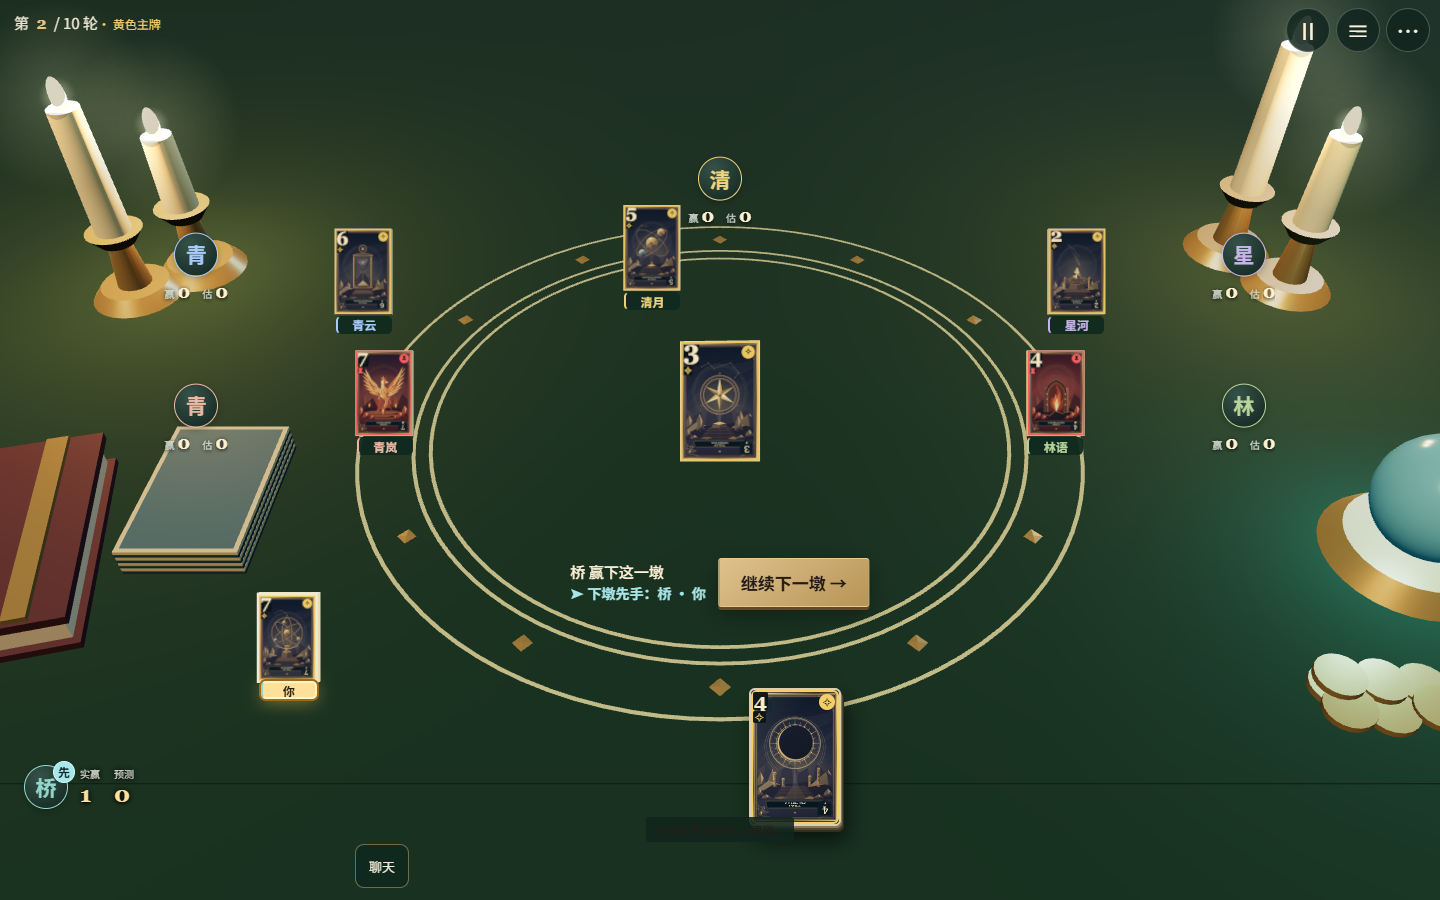
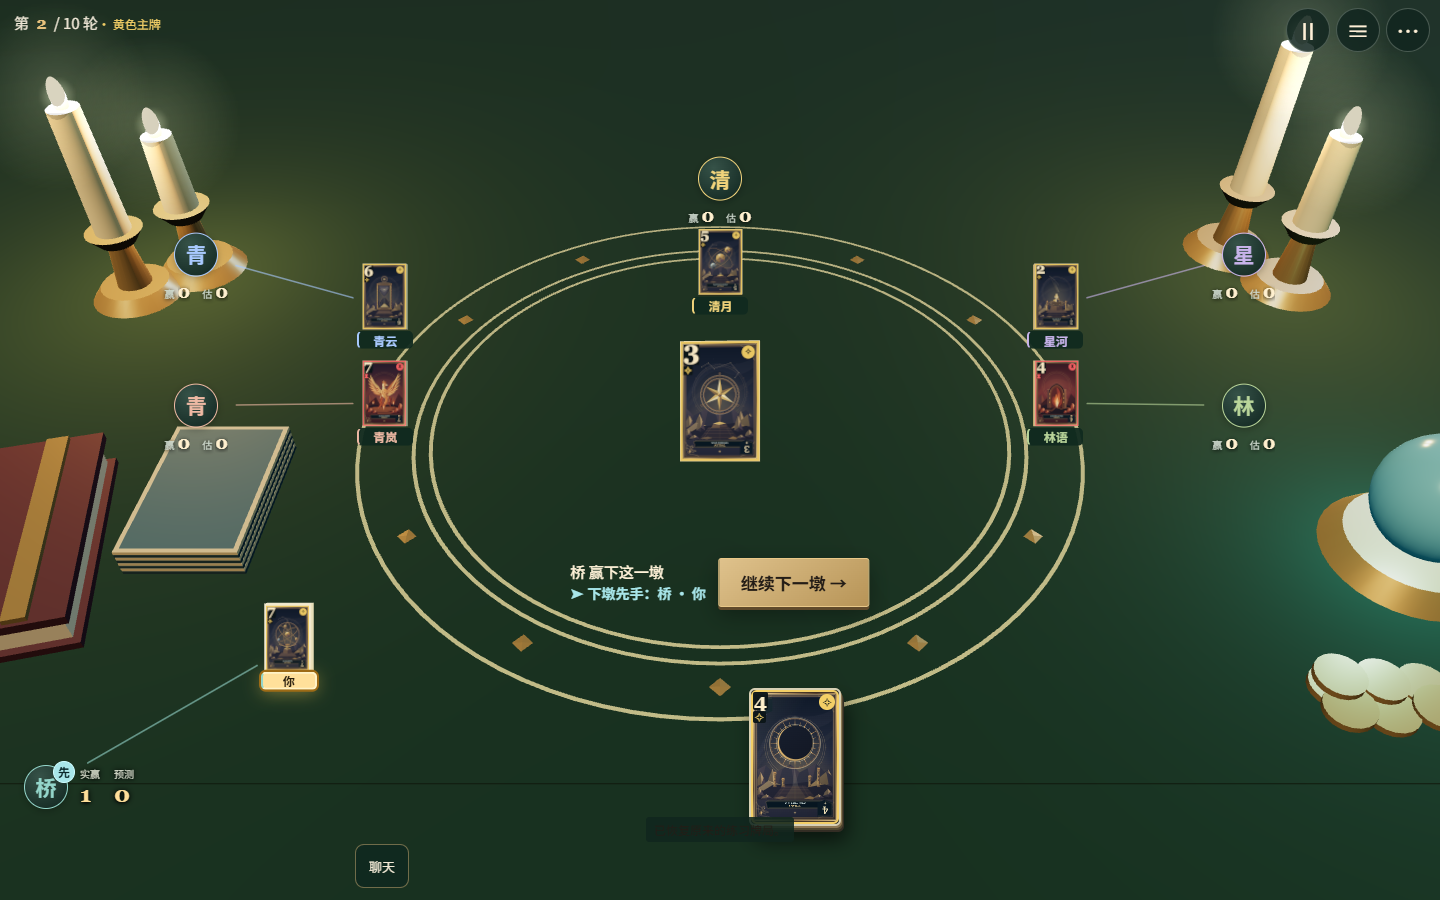
固定出牌所属头像区域，修正六人归属混淆

diff --git a/src/main.js b/src/main.js
@@ -29,7 +29,7 @@ import './table-clarity.css';
 import { cardMark, cardMarksHTML } from './card-face.js';
 import { captureHand, HandMotion } from './hand-motion.js';
 import { CARD_ENTER_MS, TableMotion } from './table-motion.js';
-import { playedCardRect, playedCardSlots } from './table-layout.js';
+import { playedCardRect, playedCardSlots, playedCardLink } from './table-layout.js';
 import { seatPosition, landscapeSeatPosition, relativeSeat, followSuitHint, playBlockedReason, sortCards, isSwipe } from './hand-model.js';
 import { readRoomRecoveries, saveRoomRecovery, removeRoomRecovery } from './room-recovery.js';
 import { PRACTICE_SAVE_KEY, PRACTICE_KEEP_MS, readPractice, savePractice } from './practice-save.js';
@@ -430,7 +430,7 @@ function updateLayoutMetrics() {
     const trumpNode = $('.trump-display[data-occluded="false"] .trump-card');
     const trump = trumpNode?.getBoundingClientRect();
     if (trump) obstacles.push(trump);
-    const center = trump ? {x:trump.left+trump.width/2,y:trump.top+trump.height/2} : {x:rect.left+rect.width/2,y:rect.top+rect.height*.48};
+    let center = trump ? {x:trump.left+trump.width/2,y:trump.top+trump.height/2} : {x:rect.left+rect.width/2,y:rect.top+rect.height*.48};
     const seats = [...avatars].filter(([,node])=>node).map(([id,node]) => { const r=node.getBoundingClientRect(); return {id,self:id===me,x:r.left+r.width/2,y:r.top+r.height/2}; });
     const area = {left:rect.left+8,right:rect.right-8,top:rect.top+8,bottom:rect.bottom-8};
     const crowdScale = {3:1,4:.9,5:.8,6:.7}[state.players.length];
@@ -438,22 +438,37 @@ function updateLayoutMetrics() {
     const preferredWidth = Math.min(sizeLimit,Math.max(36,Math.min(rect.width,rect.height)*.135*crowdScale));
     let layout = playedCardSlots(area,seats,center,obstacles,preferredWidth);
     if (!layout && trumpNode) for (const scale of [.8,.65,.55,.4]) {
-      const display = trumpNode.closest('.trump-display');
-      display.style.setProperty('--trump-width',`${trump.width*scale}px`);
-      display.style.setProperty('--trump-height',`${trump.height*scale}px`);
-      obstacles[obstacles.length-1] = trumpNode.getBoundingClientRect();
+      layoutTrumpDisplay(table,scale);
+      const smallerTrump=trumpNode.getBoundingClientRect();
+      obstacles[obstacles.length-1] = smallerTrump;
+      center={x:smallerTrump.left+smallerTrump.width/2,y:smallerTrump.top+smallerTrump.height/2};
       layout = playedCardSlots(area,seats,center,obstacles,preferredWidth);
       if (layout) break;
     }
     played.dataset.layout = layout ? 'seats' : 'unavailable';
     if (layout) {
       played.style.setProperty('--played-width',`${layout.width}px`);
+      let links=played.querySelector('.played-links');
+      if(!links){links=document.createElementNS('http://www.w3.org/2000/svg','svg');links.classList.add('played-links');links.setAttribute('aria-hidden','true');played.prepend(links);}
+      links.setAttribute('viewBox',`0 0 ${rect.width} ${rect.height}`);links.replaceChildren();
       for (const node of played.querySelectorAll('.played')) {
         const slot = layout.slots.get(node.dataset.player);
         node.style.setProperty('--play-x',`${slot.x-rect.left}px`);
         node.style.setProperty('--play-y',`${slot.y-rect.top}px`);
         node.style.setProperty('--player-color',avatars.get(node.dataset.player)?.style.getPropertyValue('--avatar-color') || '#f3ead6');
         if (node.dataset.player === me) node.querySelector('.played-name').textContent = '你';
+        if(seats.length>=5){
+          const avatar=avatars.get(node.dataset.player),source=seats.find(seat=>seat.id===node.dataset.player);
+          const sourceRect=avatar.closest('.player,.own-status').getBoundingClientRect();
+          const link=playedCardLink(source,sourceRect,node.getBoundingClientRect());
+          if(link){
+            const line=document.createElementNS('http://www.w3.org/2000/svg','line');
+            for(const name of ['x1','x2'])line.setAttribute(name,link[name]-rect.left);
+            for(const name of ['y1','y2'])line.setAttribute(name,link[name]-rect.top);
+            line.setAttribute('stroke',avatar.style.getPropertyValue('--avatar-color'));
+            line.dataset.player=node.dataset.player;links.append(line);
+          }
+        }
       }
     }
   }

diff --git a/src/table-layout.js b/src/table-layout.js
@@ -31,9 +31,13 @@ export function playedCardRect(node) {
 const intersects = (a, b, gap = 4) => a.left < b.right + gap && a.right > b.left - gap && a.top < b.bottom + gap && a.bottom > b.top - gap;
 
 // Reserve every player's destination, including seats that have not played.
-// Search the corridor from each real avatar toward the trump, then reduce the
-// common face size only if all seats cannot fit at the preferred size.
+// Keep each face in its owner's angular sector around the trump. Empty felt
+// in a different player's sector is not a valid destination.
 export function playedCardSlots(area, seats, center, obstacles, preferredWidth) {
+  const directions = seats.map(seat=>{
+    const length=Math.hypot(seat.x-center.x,seat.y-center.y)||1;
+    return {id:seat.id,x:(seat.x-center.x)/length,y:(seat.y-center.y)/length};
+  });
   for (const width of [...new Set([1,.92,.84,.76,.68,.6].map(scale => Math.max(36, Math.round(preferredWidth * scale))).concat(36))]) {
     const slotWidth = Math.max(56, width), height = width * 1.5 + 20;
     const rectAt = (x,y) => ({ left:x-slotWidth/2, right:x+slotWidth/2, top:y-height/2, bottom:y+height/2 });
@@ -42,15 +46,20 @@ export function playedCardSlots(area, seats, center, obstacles, preferredWidth) 
       const preferred = { x:seat.x+dx*.36, y:seat.y+dy*.36 };
       if (seat.self) preferred.y = Math.max(preferred.y,center.y+height*.35);
       const xs = [preferred.x], ys = [preferred.y];
+      for(const offset of [-.6,-.3,.3,.6]){xs.push(preferred.x+slotWidth*offset);ys.push(preferred.y+slotWidth*offset);}
       for (const t of [.32,.4,.5,.6,.7,.8]) { xs.push(seat.x+dx*t); ys.push(seat.y+dy*t); }
       for (const r of obstacles) { xs.push(r.left-4-slotWidth/2,r.right+4+slotWidth/2); ys.push(r.top-4-height/2,r.bottom+4+height/2); }
       const options = [];
       for (const x of new Set(xs)) for (const y of new Set(ys)) {
         const t = ((x-seat.x)*dx+(y-seat.y)*dy)/length2;
         const cross = ((x-seat.x)*dy-(y-seat.y)*dx)**2/length2;
-        if (t < .12 || t > (seat.self ? 1.35 : 1) || cross > (slotWidth*2.2)**2) continue;
+        if (t < .12 || t > (seat.self ? 1.35 : 1) || cross > (slotWidth*(seat.self ? 1.5 : .7))**2) continue;
         if ((x-center.x)**2+(y-center.y)**2 > length2*.85) continue;
         if (seat.self && y < center.y+height*.22) continue;
+        const face={x:x-center.x,y:y-10-center.y};
+        const owner=directions.find(direction=>direction.id===seat.id);
+        const alignment=face.x*owner.x+face.y*owner.y;
+        if (directions.some(other=>other.id!==seat.id&&face.x*other.x+face.y*other.y>alignment-.5)) continue;
         const rect = rectAt(x,y);
         if (rect.left < area.left || rect.right > area.right || rect.top < area.top || rect.bottom > area.bottom || obstacles.some(o => intersects(rect,o))) continue;
         options.push({ x,y,rect,score:(x-preferred.x)**2+(y-preferred.y)**2+cross*4 });
@@ -93,4 +102,14 @@ export function playedCardSlots(area, seats, center, obstacles, preferredWidth) 
     }
   }
   return null;
+}
+
+export function playedCardLink(source, sourceRect, targetRect, gap=4) {
+  const dx=(targetRect.left+targetRect.right)/2-source.x,dy=(targetRect.top+targetRect.bottom)/2-source.y;
+  const length=Math.hypot(dx,dy);if(!length)return null;
+  const exit=Math.min(dx>0?(sourceRect.right-source.x)/dx:dx<0?(sourceRect.left-source.x)/dx:Infinity,
+    dy>0?(sourceRect.bottom-source.y)/dy:dy<0?(sourceRect.top-source.y)/dy:Infinity)+gap/length;
+  const enter=Math.max(dx>0?(targetRect.left-source.x)/dx:dx<0?(targetRect.right-source.x)/dx:-Infinity,
+    dy>0?(targetRect.top-source.y)/dy:dy<0?(targetRect.bottom-source.y)/dy:-Infinity)-gap/length;
+  return enter>exit?{x1:source.x+dx*exit,y1:source.y+dy*exit,x2:source.x+dx*enter,y2:source.y+dy*enter}:null;
 }

diff --git a/tests/table-layout.test.js b/tests/table-layout.test.js
@@ -1,6 +1,6 @@
 import test from 'node:test';
 import assert from 'node:assert/strict';
-import { openCardSlot, playedCardSlots } from '../src/table-layout.js';
+import { openCardSlot, playedCardSlots, playedCardLink } from '../src/table-layout.js';
 
 test('trump yields to an opposite seat and never leaves the available table', () => {
   const area = {left:8,right:382,top:64,bottom:410};
@@ -45,7 +45,7 @@ test('played-card sizing shrinks to fit and reports a completely obstructed play
   assert.equal(playedCardSlots(area,seats,center,[area],118),null);
 });
 
-test('six narrow-landscape seats keep the viewer below and beside the unobstructed trump', () => {
+test('six narrow-landscape cards cannot occupy another avatar sector even when that space is empty', () => {
   const center={x:333.5,y:212.265625},area={left:8,right:659,top:8,bottom:367};
   const seats=[{id:'p0',self:true,x:30,y:341},{id:'p1',x:63,y:165.328125},
     {id:'p2',x:153.40625,y:75.546875},{id:'p3',x:333.5,y:47.421875},
@@ -54,10 +54,25 @@ test('six narrow-landscape seats keep the viewer below and beside the unobstruct
   const trump={left:295.5,right:371.5,top:155.265625,bottom:269.265625};
   obstacles.push(trump,{left:8,right:153,top:319,bottom:363},{left:168,right:659,top:285.828125,bottom:359},
     {left:513,right:657,top:8,bottom:52},{left:12,right:141.125,top:10,bottom:29});
-  const layout=playedCardSlots(area,seats,center,obstacles,68);
+  assert.equal(playedCardSlots(area,seats,center,obstacles,36),null,'the large central trump leaves no honest top-seat slot');
+  const smallerTrump={left:center.x-15.2,right:center.x+15.2,top:center.y-22.8,bottom:center.y+22.8};
+  obstacles[obstacles.indexOf(trump)]=smallerTrump;
+  const layout=playedCardSlots(area,seats,center,obstacles,36);
   assert.ok(layout);assert.equal(layout.slots.size,6);
   const own=layout.slots.get('p0');
   assert.ok(own.y>center.y);
-  assert.ok(own.rect.right<trump.left||own.rect.left>trump.right||own.rect.top>trump.bottom);
-  for(const slot of layout.slots.values())assert.ok(slot.rect.right<=trump.left||slot.rect.left>=trump.right||slot.rect.bottom<=trump.top||slot.rect.top>=trump.bottom);
+  assert.ok(own.rect.right<smallerTrump.left||own.rect.left>smallerTrump.right||own.rect.top>smallerTrump.bottom);
+  for(const seat of seats){
+    const slot=layout.slots.get(seat.id),face={x:slot.x-center.x,y:slot.y-10-center.y};
+    const alignment=source=>(face.x*(source.x-center.x)+face.y*(source.y-center.y))/Math.hypot(source.x-center.x,source.y-center.y);
+    for(const other of seats.filter(other=>other.id!==seat.id))assert.ok(alignment(seat)>alignment(other),'card stays in its own avatar direction');
+    assert.ok(slot.rect.right<=smallerTrump.left||slot.rect.left>=smallerTrump.right||slot.rect.bottom<=smallerTrump.top||slot.rect.top>=smallerTrump.bottom);
+  }
+});
+
+test('ownership links stop before the player and card rectangles and omit a gap too short to draw', () => {
+  const source={x:20,y:20},player={left:10,right:30,top:10,bottom:30};
+  const link=playedCardLink(source,player,{left:60,right:80,top:10,bottom:30});
+  for(const [key,value]of Object.entries({x1:34,y1:20,x2:56,y2:20}))assert.ok(Math.abs(link[key]-value)<1e-9);
+  assert.equal(playedCardLink(source,player,{left:34,right:54,top:10,bottom:30}),null);
 });

diff --git a/src/trump-display.js b/src/trump-display.js
@@ -58,7 +58,7 @@ export function renderTrumpDisplay(table, state) {
   table.append(root);
 }
 
-export function layoutTrumpDisplay(table) {
+export function layoutTrumpDisplay(table, sizeScale = 1) {
   const root = table?.querySelector('.trump-display');
   if (!root?.querySelector('.trump-card')) return;
   const box = table.getBoundingClientRect();
@@ -71,7 +71,7 @@ export function layoutTrumpDisplay(table) {
   const area = { left:box.left+8, right:box.right-8,
     top:Math.max(box.top+8,...header.map(r=>r.bottom+12)), bottom:Math.min(box.bottom-8,...dock.map(r=>r.top-10)) };
   const obstacles = visible('.opponents .player, .foresight-hands, .lifecycle-banner');
-  const width = box.width > 850 ? 100 : box.width > box.height ? 76 : 94;
+  const width = (box.width > 850 ? 100 : box.width > box.height ? 76 : 94) * sizeScale;
   const preferred = { x:box.left+box.width/2, y:area.top+(area.bottom-area.top)*.7 };
   let slot = null, best = Infinity;
   for (const scale of [1, .8, .65]) {

diff --git a/src/table-clarity.css b/src/table-clarity.css
@@ -1,4 +1,6 @@
 /* Cards share a measured layout and scale with the room between seats and trump. */
+.played-links { position:absolute;inset:0;width:100%;height:100%;overflow:visible;pointer-events:none; }
+.played-links line { stroke-width:1.5;stroke-linecap:round;opacity:.6; }
 body[data-screen="game"] .table .played-cards .played,
 body[data-screen="game"].has-webgl .table .played-cards .played {
   width:max(56px,var(--played-width,56px));height:calc(var(--played-width,56px) * 1.5 + 20px);

diff --git a/docs/dev-memory/HISTORY.md b/docs/dev-memory/HISTORY.md
@@ -315,3 +315,12 @@
 - 既有 17 组布局／原生触控／选牌确认检查通过；本地真实 Worker 与手机浏览器／三维观众的动画检查通过，覆盖出牌、聊天及尺寸重绘、暂停收牌、二维动画冻结、旋转、暂停刷新与下一墩同步清场，errors=[]。后续仅调整牌面分档与姓名标签，最终完整 80 场景及单测再次通过。
 - 验证边界：一个中间全量检查在页面导航时出现浏览器崩溃，未计为通过；最终完整重跑通过。旧 5173 Vite 返回旧 CSS，经核对响应后改用独立 5180 服务；未将开发服务缓存归因为线上源码故障。手机为桌面浏览器模拟，不声称真实手机 GPU、键盘或运营商网络验收；保留既有 Three.js 分包提示，无远端 CI 变更。
 - 最终效果：[六人横屏](../screenshots/played-card-landscape.png)、[六人竖屏](../screenshots/played-card-portrait.png)、[六人电脑](../screenshots/played-card-desktop.png)。几何明细与中间证据位于忽略提交的 output/playwright。本轮按默认策略提交代码、必要回归与记录到本地 Git，尚未推送、创建 PR、合并或部署。
+
+<a id="h-027"></a>
+## H-027 · 2026-10-29 · 修正六人出牌跨入相邻头像方向
+- 来源：用户复看 `da49b5c` 的六人截图，指出仍无法辨认是谁出的牌。起始工作区及暂存区干净，在原功能分支继续修正；最终约束见 [D-021](DECISIONS.md#d-021)。此前 80 场景只检查不重叠、朝内与动画端点，没有检查出牌是否位于对应头像方向，不能作为归属清晰的证据。
+- 新增实际牌面方向检查后，原实现于 667×375 六人部分出牌样本明确失败：p2 的牌进入 p1 的方向；用户截图中完整墩的跨头像排列源于相同的全局空位搜索。现在仅允许各自方向内的狭窄通道；自己的侧下方例外仍受其归属范围限制，不能跨到别人的头像下。
+- 五六人使用同色细连接线辅助辨认，截在玩家信息框与牌之间，保留原姓名和「你」标签。中央主牌缩小后重新定位，使顶部玩家有自己的落点。未改变牌面大小分档、规则、随机流、暂停时钟、结算截止时间、依赖或远端工作流。
+- 修复过程中 1105×482 四人及 360×640 五人样本曾因更严格的归属约束没有可行落点。分别通过重新定位缩小后的主牌、在原归属通道内补充候选位置解决；未放宽归属断言。连接线单测采用数值容差处理浮点端点，仍验证线段不进入玩家或牌框。
+- 最终完整 80 场景通过：七种三维视口与三种二维视口 × 三至六人 × 部分出牌／完整墩，新增每张牌相对所有头像的方向归属检查，并保留原遮挡、视口、朝内与小于 2px 的动画端点断言，errors=[]。单元测试 214/214、语法、生产构建与 Git 空白检查通过；未将浏览器模拟称为真实手机验收。
+- 已实际复看六人横屏及竖屏，清月的牌位于清月头像下，青云的牌位于左上头像内侧。更新 H-026 的三张同名效果图；本次代码、回归与记录一起提交本地 Git，未推送、创建 PR、合并或部署。

diff --git a/docs/dev-memory/DECISIONS.md b/docs/dev-memory/DECISIONS.md
@@ -170,8 +170,16 @@
 
 <a id="d-020"></a>
 ## D-020 · 2026-10-29 · 出牌归属优先与头像内侧落点
+- 后续修正：本条空位搜索的位置约束已由 [D-021](#d-021) 加强；尺寸分档、姓名与共享动画时钟继续沿用。
 - 状态：已采用。用户先要求审查横屏及电脑偶发飞牌，随后明确出牌应处于头像到中央主牌之间，自己的牌向左下或右下错开；最终反馈放大后混乱，强调「能让人看清楚是谁出的」比牌大重要，并要求人数越多牌越小。
 - agent 选择以真实头像与中央主牌的屏幕位置预留全体玩家的落点；未出牌座位也占位，避免新牌挤走旧牌。二维牌、标签与三维网格共用实际布局坐标，入场从真实头像出发，收牌到确认赢家的真实头像；继续沿用 D-017 的共享进度、暂停与权威截止时间。
 - 最终按 3／4／5／6 人递减尺寸：上限分别为 84／76／64／56px，并随可用视口继续缩小，必要时最低 36px。这是 agent 的实现参数；用户没有指定这些数值。标签优先显示姓名，沿用头像颜色作对应标记，自己显示「你」；五六人时弱化重复状态文字，保留赢家高光、头像先手标记、完整可访问描述与结算说明。
 - 中央主牌先预留空间，其他牌避让其实际矩形；极小视口必要时缩小主牌。短竖屏墩末复用不可操作的手牌区域展示结算，以免把所有公开牌挤在中央。此条取代旧的出牌百分比模板，头像主体与规则不变。
 - 先将牌收拢为一行的 agent 方案未作为最终方案保留；随后偏大的自适应尺寸也已按用户反馈收回。本轮遵循仓库默认策略，将完成的小任务和开发记录提交本地 Git；未收到本轮发布要求，不自动推送、合并或部署。实施与验证见 [H-026](HISTORY.md#h-026)。
+
+<a id="d-021"></a>
+## D-021 · 2026-10-29 · 出牌不得跨入其他头像的方向
+- 状态：已采用。用户复看六人截图后明确否定当前归属效果；这是对 D-020 实现效果的否定，不能因已有边界检查通过而视为已满足需求。
+- agent 选择将每张牌限制在其头像相对中央主牌的方向范围内；其他玩家方向中的空位不可使用。对手只在狭窄通道内调整，自己可在自己的范围内向侧下方错开；尺寸分档不变。中央主牌必要时缩小后重新寻找位置，给顶部玩家留出其专属出牌空间。
+- 五六人补充与头像同色的细连接线，只画玩家完整信息框与牌之间的空隙，不穿过姓名或牌面；距离不足时省略。保留姓名与「你」标记，归属依赖空间位置、文字与连接关系共同表达。
+- 本地验证新增明确的归属断言，比较每张实际牌面与全部头像相对主牌的方向；原版会失败。不要用放宽归属、遮挡或边界断言来换取可行布局。实施、失败证据与完成检查见 [H-027](HISTORY.md#h-027)。

diff --git a/docs/dev-memory/KNOWLEDGE.md b/docs/dev-memory/KNOWLEDGE.md
@@ -31,5 +31,6 @@
 ## K-006 · 飞牌检查要同时核对归属、布局与动画坐标
 - 来源：[H-026](HISTORY.md#h-026)，最终显示优先级见 [D-020](DECISIONS.md#d-020)。横屏按座位编号铺整屏百分比，会使左侧玩家的牌出现在中央、右侧牌过远；只检查牌没有出屏或互相遮挡，不能证明用户能判断归属。应同时检查真实头像、姓名、颜色对应及完整墩的整体观感；大牌也可能降低可读性。
 - 动画中的 `getBoundingClientRect()` 包含子卡的位移／缩放，不能拿它重新生成动画终点。使用静止的座位容器边界和卡牌布局尺寸，HTML 与 WebGL 共用同一像素坐标；收牌目的地直接取赢家头像，避免固定圈坐标、vw/dvh 与局部容器混算。
-- 全体座位需从第一张牌前就预留。窄屏求空位时先去重候选，再按当前剩余选项最少的座位搜索；只取第一组可行位置仍可能迫使某人远离头像，成对调整可改善整体归属。必须保留遮挡、边界与向内的位置约束，不能用强制点击或放宽断言掩盖失败。
+- 全体座位需从第一张牌前就预留。窄屏求空位时先去重候选，再按当前剩余选项最少的座位搜索；成对调整只是位置优化，仍不能保证归属。用户随后截图证实牌可被挪到相邻头像下，故增加 [D-021](DECISIONS.md#d-021) 的方向归属硬约束；必须同时保留遮挡、边界与向内的位置约束，不能放宽断言掩盖失败。
+- 顶部头像与中央主牌之间没有足够高度时，只缩小主牌但固定中心仍可能无解；缩小后须重新寻找主牌位置。细连接线应截在玩家完整信息框和卡牌边界之外，避免穿过头像下方的赢／估数字。
 - 本轮再次遇到旧 Vite 进程返回旧 CSS：核对实际 HTTP 响应后启用独立 5180 开发服务，再验收真实 computed style。浏览器页面崩溃的中断检查不算通过；独立重跑完整检查，保留模拟设备与真实手机 GPU／键盘之间的边界。
